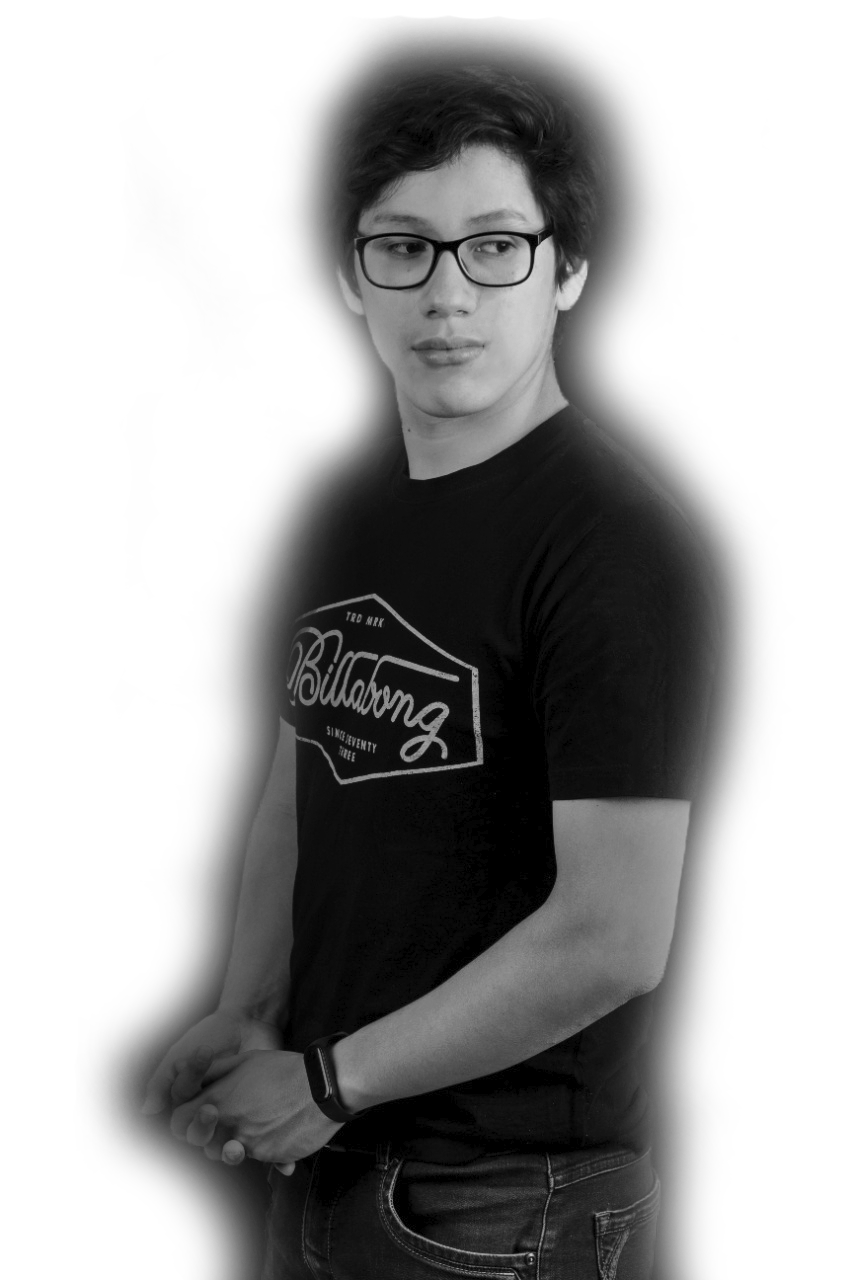
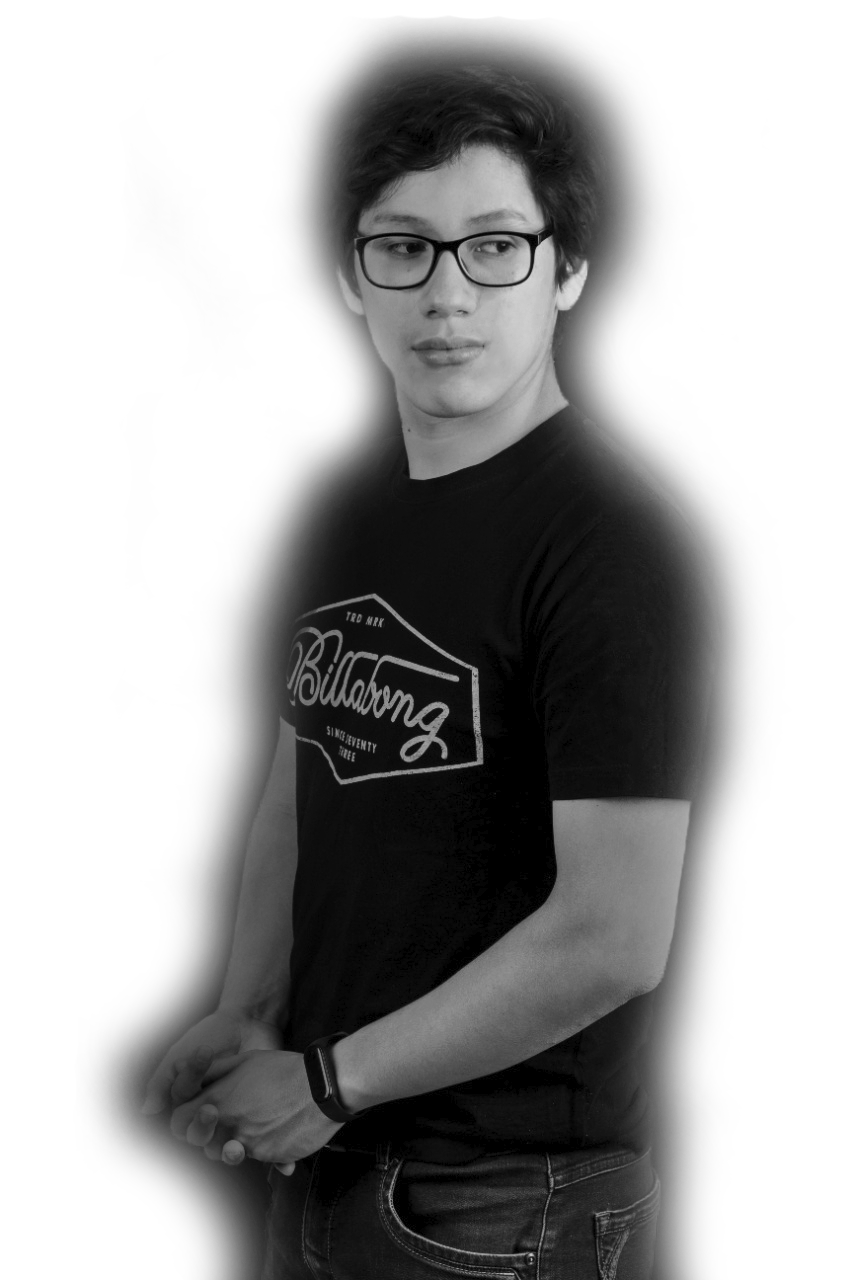
fix: photos

Changed region(s): [[0.6706, 0.2812, 0.8839, 0.5625]]

diff --git a/css/styles.css b/css/styles.css
@@ -16,101 +16,6 @@ a:hover {
   background: rgba(18, 18, 19, 0.8);
 }
 
-/*MOBILE NAVIGATION */
-/**
-* Mobile Navigation 
-*/
-.mobile-nav-toggle {
-  color: #fff;
-  font-size: 28px;
-  cursor: pointer;
-  display: none;
-  line-height: 0;
-  transition: 0.5s;
-}
-
-@media (max-width: 991px) {
-  .mobile-nav-toggle {
-    display: block;
-  }
-
-  .navbar ul {
-    display: none;
-  }
-}
-.navbar-mobile {
-  position: fixed;
-  overflow: hidden;
-  top: 0;
-  right: 0;
-  left: 0;
-  bottom: 0;
-  background: rgba(36, 41, 46, 0.9);
-  transition: 0.3s;
-  z-index: 999;
-}
-.navbar-mobile .mobile-nav-toggle {
-  position: absolute;
-  top: 15px;
-  right: 15px;
-}
-.navbar-mobile ul {
-  display: block;
-  position: absolute;
-  top: 55px;
-  right: 15px;
-  bottom: 15px;
-  left: 15px;
-  padding: 10px 0;
-  border-radius: 10px;
-  background-color: #fff;
-  overflow-y: auto;
-  transition: 0.3s;
-}
-.navbar-mobile a,
-.navbar-mobile a:focus {
-  padding: 10px 20px;
-  font-size: 14px;
-  color: #3b434a;
-}
-.navbar-mobile a:hover,
-.navbar-mobile .active,
-.navbar-mobile li:hover > a {
-  color: #6123d4;
-}
-.navbar-mobile .getstarted,
-.navbar-mobile .getstarted:focus {
-  margin: 15px;
-}
-.navbar-mobile .dropdown ul {
-  position: static;
-  display: none;
-  margin: 10px 20px;
-  padding: 10px 0;
-  z-index: 99;
-  opacity: 1;
-  visibility: visible;
-  background: #fff;
-  box-shadow: 0px 0px 30px rgba(127, 137, 161, 0.25);
-}
-.navbar-mobile .dropdown ul li {
-  min-width: 200px;
-}
-.navbar-mobile .dropdown ul a {
-  padding: 10px 20px;
-}
-.navbar-mobile .dropdown ul a i {
-  font-size: 12px;
-}
-.navbar-mobile .dropdown ul a:hover,
-.navbar-mobile .dropdown ul .active:hover,
-.navbar-mobile .dropdown ul li:hover > a {
-  color: #6123d4;
-}
-.navbar-mobile .dropdown > .dropdown-active {
-  display: block;
-}
-
 /* NAVBAR SECTION */
 .navbar ul {
   margin: 0;

diff --git a/js/main.js b/js/main.js
@@ -81,3 +81,25 @@ $(window)
     );
   });
 })();
+
+$(document).ready(function () {
+  var referencePosition = 0; // donde se almacena a partir de que top se muestra el navbar
+  var lastPosition = 0; // Auxiliar para saber si estas bajando o subiendo
+
+  $(window).scroll(function () {
+    console.log($(this).scrollTop(), referencePosition);
+    let positionActual = $(this).scrollTop();
+    if (positionActual > referencePosition) {
+      //si estas debajo del punto de referencia, ocultar
+      $('.navbar').fadeOut(150);
+    } else {
+      // si subistes arriba del punto de referencia mostrar
+      $('.navbar').fadeIn(150);
+    }
+    if (positionActual > lastPosition) {
+      // si estas bajando, actualizar punto de referencia a 50 pixeles arriba del scroll actual
+      referencePosition = positionActual - 50;
+    }
+    lastPosition = positionActual; // actualizar auxiliar para saber si subes o bajas
+  });
+});

diff --git a/index.html b/index.html
@@ -104,7 +104,7 @@
       <div class="row align-items-center ms-auto me-auto about-container">
         <div class="col-lg-6 order-1 order-lg-0 d-none  d-md-block " >
           <img
-            src="./assets/img/xd2.png"
+            src="./assets/img/xd3.png"
             alt="me"
             class="img-fluid"
             width="75%"
